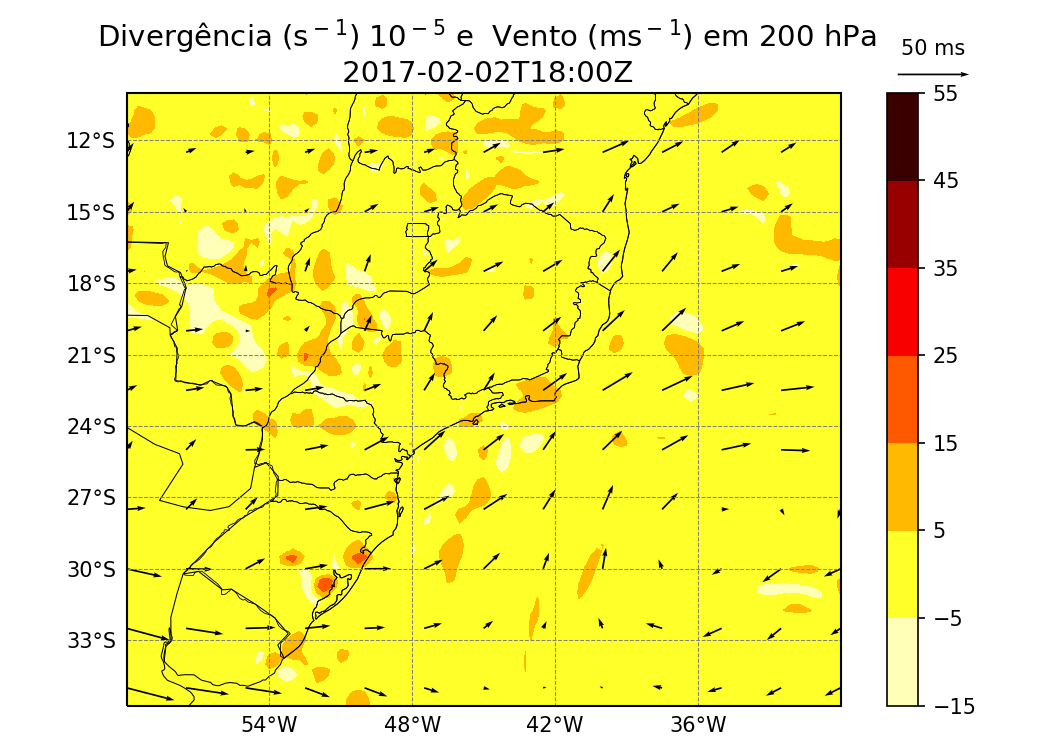
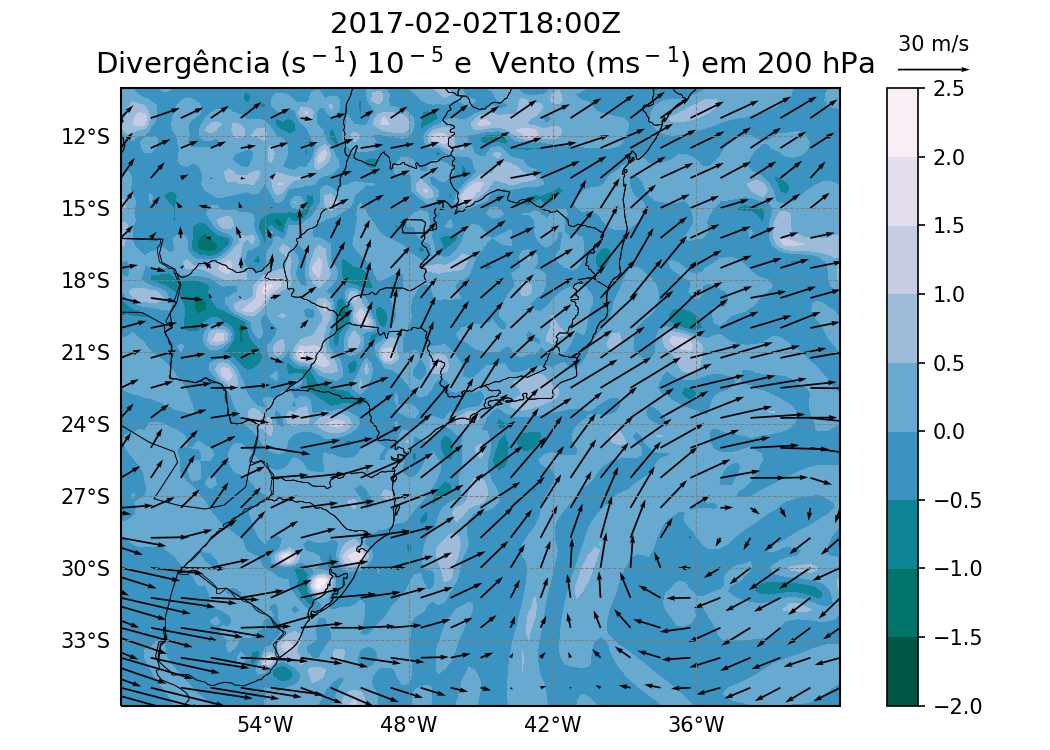
Fixed2

diff --git a/scripts/ERA_Imagens.py b/scripts/ERA_Imagens.py
@@ -17,32 +17,20 @@ plt.rcParams['savefig.dpi'] = 150
 
 #########################Change HERE:#####################################
 era_data = '/p1-mega/isabela/ERA5/reanalysis-era5-pressure-levels_feb.nc'
-#sg_level_data = '/home/isabela/Mestrado/MiniProjects/ERA5/single02_02.nc'
+sg_level_data = '/p1-mega/isabela/ERA5/reanalysis-era5-single-levels_feb.nc'
 ##########################################################################
 
 ps = xr.open_dataset(era_data)
-#sgl = xr.open_dataset(sg_level_data)
+sgl = xr.open_dataset(sg_level_data)
 
 lats = ps['latitude']
 lons = ps['longitude']
 for t in range(0, len(ps['time'])):
     time = ps['time'][t]
     tempo = np.datetime_as_string(time, unit='m', timezone = 'UTC')
-    rh = ps['r'][t][1][:][:]
 
-    wind_u = ps['u'][t][4][:][:]
-    wind_v = ps['v'][t][4][:][:]    
-    upper_u = ps['u'][t][0][:][:]
-    upper_v = ps['v'][t][0][:][:]    
-    jet_stream = mpcalc.wind_speed(upper_u, upper_v)
-    vert_w = ps['w'][4][:][:]
-    div = ps['d'][t][0][:][:] * 10**5
 
     
-    # prnm = sgl['msl'][t][:][:]
-    # prnm = prnm/100
-    geo = ps['z'][t][0][:][:]
-    geo = geo/100
        
     hgt_500 = ps['z'][t][0][:][:]
     hgt_1000 = ps['z'][t][2][:][:]
@@ -65,20 +53,32 @@ for t in range(0, len(ps['time'])):
     states = NaturalEarthFeature(category='cultural', scale='50m', 
                                  facecolor='none',name='admin_1_states_provinces_shp', linewidth = 0.4)
     states = ax.add_feature(states, edgecolor='black')
-    skip = 10
+    
+    
     # Ploting jetstreams:
-    plt.title(' Divergência (s$^-$$^1$) 10$^-$$^5$ e  Vento (ms$^-$$^1$) em 200 hPa \n {}'.format(tempo), fontsize=14)
-    img_plot = plt.contourf(lons, lats, div, levels=np.arange(-15,60,10), cmap='hot_r', transform=projection)
+    upper_u = ps['u'][t][0][:][:]
+    upper_v = ps['v'][t][0][:][:]    
+    jet_stream = mpcalc.wind_speed(upper_u, upper_v)
+    div = ps['d'][t][0][:][:] * 10**4
+    
+    skip = 5
+    plt.title('{} \n Divergência (s$^-$$^1$) 10$^-$$^5$ e  Vento (ms$^-$$^1$) em 200 hPa'.format(tempo), fontsize=14)
+    img_plot = plt.contourf(lons, lats, div, levels = np.arange(-2,3,0.5), cmap='PuBuGn_r', transform=projection)
     cbr = plt.colorbar(img_plot)
     img_plot = plt.quiver(lons[::skip], lats[::skip], upper_u[::skip,::skip], upper_v[::skip,::skip],
-                          angles='xy', transform=projection, scale=500)
-    img_plot = plt.quiverkey(img_plot, 1.13, 1.03, 50, '50 ms')
+                          angles='xy', transform=projection, scale=300)
+    img_plot = plt.quiverkey(img_plot, 1.13, 1.03, 30, '30 m/s')
 
     fig.canvas.draw()
     plt.tight_layout()
     plt.savefig('/home/isabela/Mestrado/MiniProjects/ERA5/Imagens/Upper_level_0' + tempo + '.png')
+    plt.clf()
 
     # #Ploting 850hPa: humidity and wind
+    wind_u = ps['u'][t][4][:][:]
+    wind_v = ps['v'][t][4][:][:]
+    rh_850 = ps['r'][t][1][:][:]
+    
     projection = ccrs.PlateCarree()
     fig, ax = brazil_states()
     
@@ -87,36 +87,78 @@ for t in range(0, len(ps['time'])):
 
     plt.title(' {} \n Umidade Relativa (%) e Vento (ms$^-$$^1$) em 850 hPa'.format(tempo), fontsize=14)
     
-    img_plot = plt.contourf(lons, lats, rh, levels= np.arange(40, 120, 10), cmap='Blues', transform=projection)
+    img_plot = plt.contourf(lons, lats, rh_850, levels= np.arange(30, 120, 10), cmap='Blues', transform=projection)
     skip = 5
-    cbr = plt.colorbar(img_plot)  
+    cbr = plt.colorbar(img_plot, ticks = [40,50,60,70,80,90,100])  
     img_plot = plt.quiver(lons[::skip], lats[::skip], wind_u[::skip,::skip], wind_v[::skip,::skip],transform=projection, scale=200)
     img_plot = plt.quiverkey(img_plot, 1.13, 1.03, 20, '20 ms')
 
     fig.canvas.draw()
     plt.tight_layout()
     plt.savefig('/home/isabela/Mestrado/MiniProjects/ERA5/Imagens/UR_vento_0' + tempo + '.png')
+    plt.clf()
+    # Mean RH 
+    rh_700 = ps['r'][t][3][:][:]
+    rh_500 = ps['r'][t][2][:][:]
+    
+    mean_rh = (rh_500+rh_700)/2
+
+    fig, ax = brazil_states()
+    states = NaturalEarthFeature(category='cultural', scale='50m', facecolor='none',name='admin_1_states_provinces_shp', linewidth = 0.4)
+    states = ax.add_feature(states, edgecolor='black')
+    
+    plt.title('{} \n Umidade Relativa Média entre 700-500 hPa'.format(tempo), fontsize=14)
+    #print(vert_w)
+    img_plot = plt.contourf(lons, lats, mean_rh, levels=np.arange(30,110,10), cmap='Blues', transform=projection)
+    plt.colorbar(img_plot, ticks = [30,40,50,60,70,80,90,100])
+    # img_plot = plt.contour(lons, lats, vert_w, transform=projection, colors='black')
+    # img_plot = plt.clabel(img_plot,inline=True)
+    fig.canvas.draw()
+    plt.tight_layout()
+
+    plt.savefig('/home/isabela/Mestrado/MiniProjects/ERA5/Imagens/UR_Media' + tempo + '.png')
+    plt.clf()
 
 
-    # #Plotting Surface: MSLP and Geopotential Thickness
-    # smooth_press = smooth2d(prnm,50, cenweight=5)
-    # fig, ax = brazil_states()
-    # states = NaturalEarthFeature(category='cultural', scale='50m', facecolor='none',name='admin_1_states_provinces_shp', linewidth = 0.4)
-    # states = ax.add_feature(states, edgecolor='black')
+    # Plotting Surface: MSLP and 850 hPa Temperature
+    prnm = sgl['msl'][t][:][:]
+    prnm = prnm/100
+    smooth_press = smooth2d(prnm,10, cenweight=0.5)
+    t_850 = ps['t'][t][4][:][:] - 273.15
     
-    # plt.title('{} \n PRNM (hPa) e Espessura Geopotencial'.format(tempo), fontsize=14)
+    
+    def brazil(projection = ccrs.PlateCarree()):
+        fig, ax = plt.subplots(figsize=(7,6), subplot_kw=dict(projection=projection))
+        ax.set_extent([-75,-30,-45,5])
+        ax.add_feature(cfeature.COASTLINE.with_scale('50m'), linewidth = 0.5)
+        ax.add_feature(cfeature.STATES, linewidth =0.5)
+        ax.add_feature(cfeature.BORDERS, linewidth=0.5)
+        img_plot=ax.gridlines(crs=ccrs.PlateCarree(), draw_labels=True, linewidth=0.5, color='gray', linestyle='--')    
+        img_plot.xlabels_top = img_plot.ylabels_right = False
+        img_plot.xformatter=LONGITUDE_FORMATTER
+        img_plot.yformatter=LATITUDE_FORMATTER
+        return fig, ax
 
-    # img_plot = plt.contour(lons, lats, smooth_press, colors='blue', transform=projection, levels=np.arange(smooth_press.min(), smooth_press.max(),4))
-    # plt.clabel(img_plot, fmt='%1.f', inline=True)
     
-    # smooth_thk = smooth2d(thk, 50, cenweight=5)
-    # img_plot = plt.contour(lons, lats, smooth_thk, levels=np.arange(thk.min(), thk.max(), 50), colors='firebrick', linestyles='dashed')
+    fig, ax = brazil()
+    states = NaturalEarthFeature(category='cultural', scale='50m', facecolor='none',name='admin_1_states_provinces_shp', linewidth = 0.4)
+    states = ax.add_feature(states, edgecolor='black')
     
-    # fig.canvas.draw()
-    # plt.tight_layout()
+    plt.title('{} \n PRNM (hPa) e Temperatura em 850 hPa'.format(tempo), fontsize=14)
+    
+    img_plot = plt.contourf(lons, lats, t_850, transform=projection, cmap = 'coolwarm', levels=np.arange(-15,35,5))
+    plt.colorbar(img_plot)
+    img_plot = plt.contour(lons, lats, smooth_press, colors='black', 
+                           transform=projection, levels=np.arange(smooth_press.min(), smooth_press.max(),4))
+    marker = [(-42,-30),(-42.5,-29)] #usar coordenadas geográficas
+    plt.clabel(img_plot, fmt='%1.f', inline=True, manual=marker)
+       
+    fig.canvas.draw()
+    plt.tight_layout()
     
 
-    # plt.savefig('/p1-mega/isabela/ERA5/THK_press_0' + tempo + '.png', transparent = True)
+    plt.savefig('/home/isabela/Mestrado/MiniProjects/ERA5/Imagens/Temp_press' + tempo + '.png')
+    plt.clf()
 
 
     
